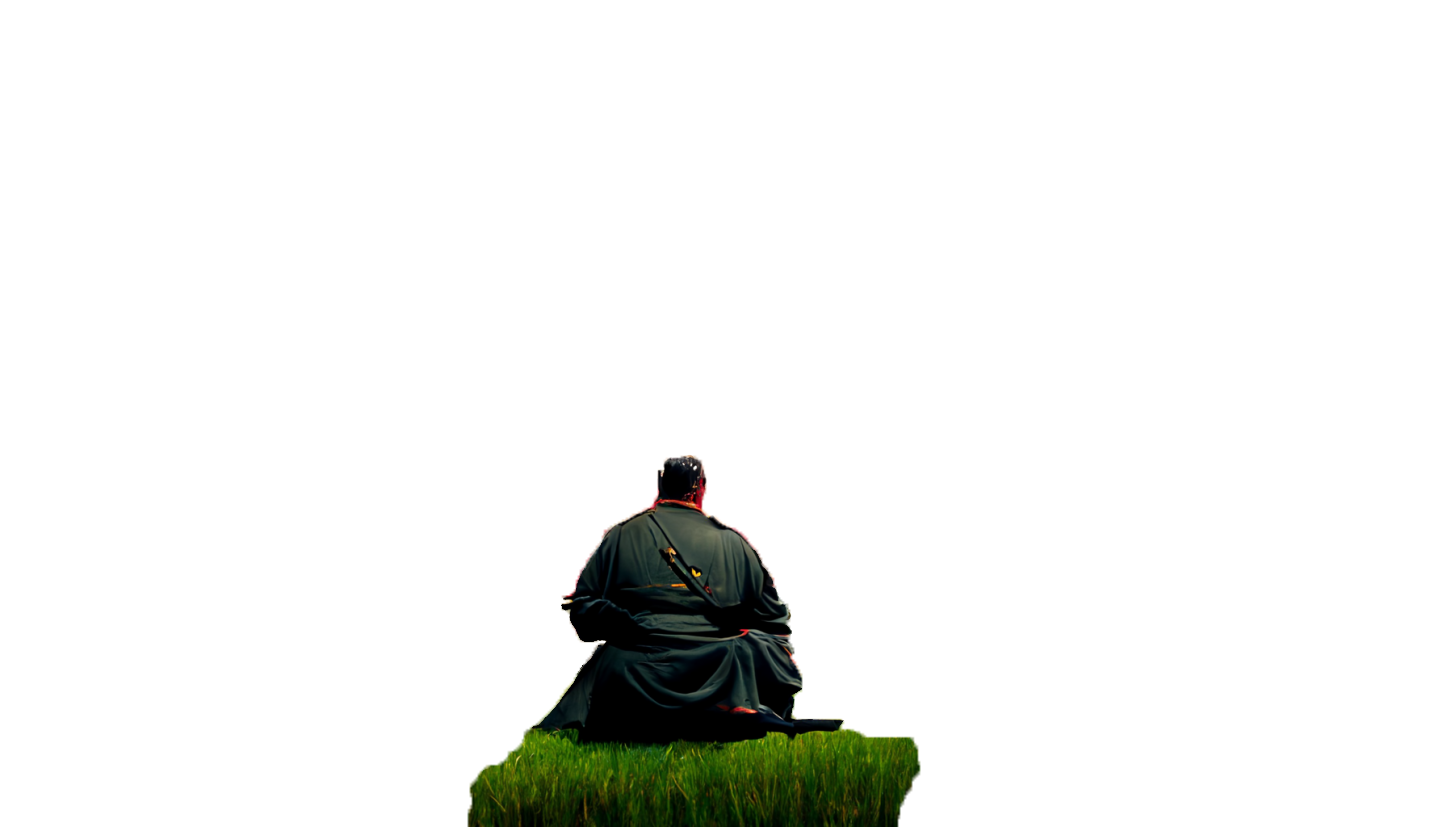
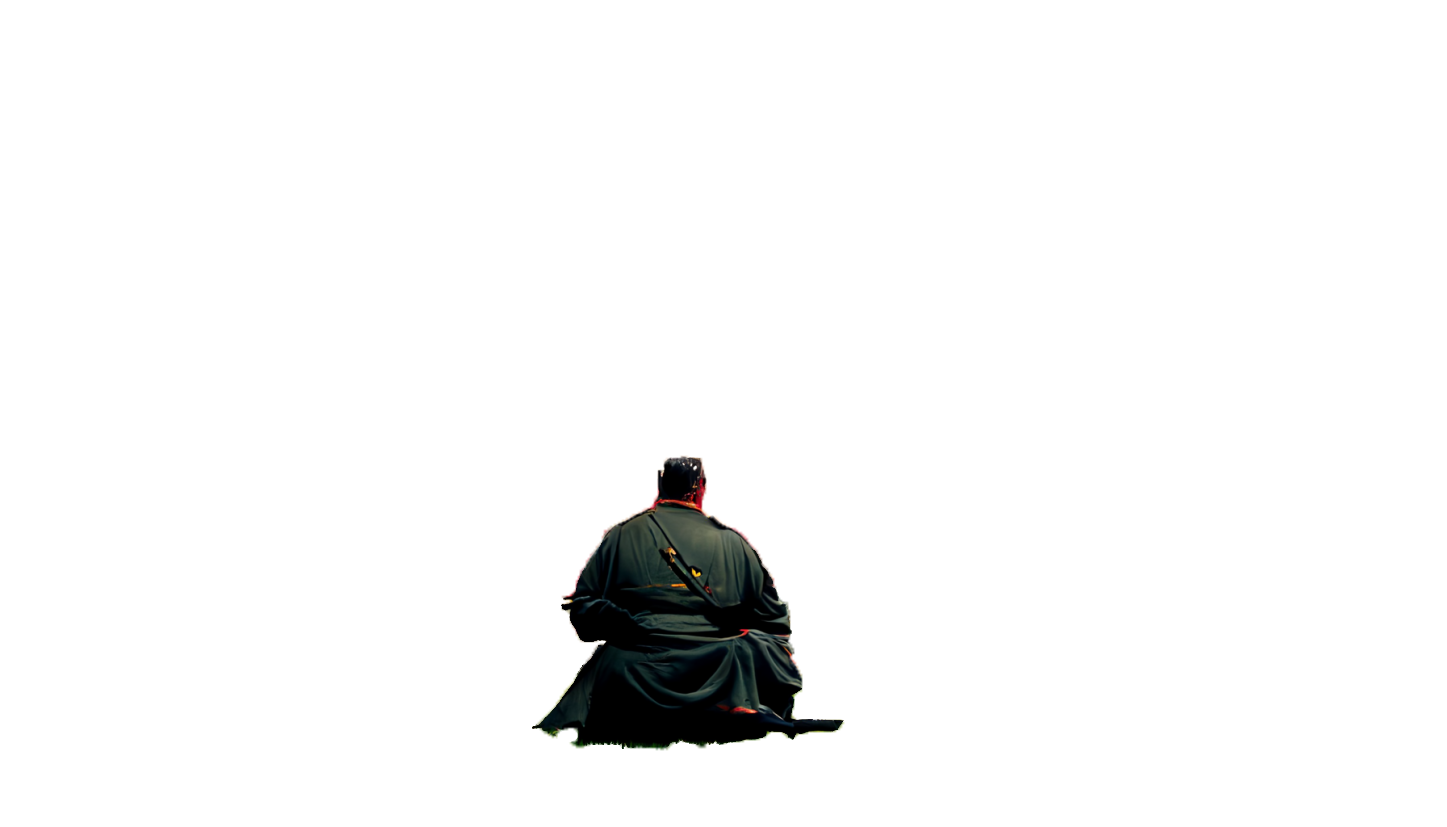
Added a prettier functionality to the main page

Changed region(s): [[0.311, 0.8767, 0.6531, 1.0]]

diff --git a/index.js b/index.js
@@ -10,16 +10,66 @@ document.addEventListener("DOMContentLoaded", function () {
         header.classList.add('reveal');
     }, 1500);  // 1500 milliseconds delay
 
-    // Subtle movement effect for h1
+    // Elements to move
     const header = document.querySelector('.header');
+    const personImage = document.querySelector('.person-image');
+    const skyImage = document.querySelector('.sky-image');
+    const leftTreesImage = document.querySelector('.left-trees-image');
+    const rightTreesImage = document.querySelector('.right-trees-image');
+    const grassImage = document.querySelector('.grass-image');
 
-    // Nav items
-    const navItems = document.querySelectorAll('.nav_item');
+    // Make tree images non-clickable and bring to the front
+    leftTreesImage.style.pointerEvents = 'none';
+    rightTreesImage.style.pointerEvents = 'none';
+    leftTreesImage.style.zIndex = 10;
+    rightTreesImage.style.zIndex = 10;
+
+    // Set initial opacity
+    leftTreesImage.style.opacity = 1;
+    rightTreesImage.style.opacity = 1;
 
     document.addEventListener('mousemove', function (e) {
-        const moveX = (e.clientX / window.innerWidth - 0.5) * 10; // Adjust multiplier for effect strength
-        const moveY = (e.clientY / window.innerHeight - 0.5) * 10; // Adjust multiplier for effect strength
+        const moveX = (e.clientX / window.innerWidth - 0.5) * 10;
+        const moveY = (e.clientY / window.innerHeight - 0.5) * 10;
         header.style.transform = `translate(${moveX}px, ${moveY}px)`;
+
+        // Align person image
+        const personMoveX = (e.clientX / window.innerWidth - 0.5) * 5;
+        const personMoveY = (e.clientY / window.innerHeight - 0.5) * 5 - 20; // Adjust vertical position
+        personImage.style.transform = `translate(${personMoveX}px, ${personMoveY}px) scale(1.05)`;
+
+        // Subtle movement for sky image
+        const skyMoveX = (e.clientX / window.innerWidth - 0.5) * 3;
+        const skyMoveY = (e.clientY / window.innerHeight - 0.5) * 3;
+        skyImage.style.transform = `translate(${skyMoveX}px, ${skyMoveY}px)`;
+
+        // Calculate the distance from the mouse to the center of the h1 element
+        const h1Bounds = document.querySelector('h1.header').getBoundingClientRect();
+        const mouseX = e.clientX;
+        const mouseY = e.clientY;
+
+        const centerX = (h1Bounds.left + h1Bounds.right) / 2;
+        const centerY = (h1Bounds.top + h1Bounds.bottom) / 2;
+
+        const distX = Math.abs(mouseX - centerX);
+        const distY = Math.abs(mouseY - centerY);
+
+        const maxDistX = window.innerWidth / 3;
+        const maxDistY = window.innerHeight / 3;
+
+        const opacityX = Math.pow(Math.min(distX / maxDistX, 1), 1); // More aggressive exponential function
+        const opacityY = Math.pow(Math.min(distY / maxDistY, 1), 1); // More aggressive exponential function
+
+        const finalOpacity = Math.max(opacityX, opacityY);
+        leftTreesImage.style.opacity = finalOpacity;
+        rightTreesImage.style.opacity = finalOpacity;
+
+        console.log(`Left Tree: opacity=${leftTreesImage.style.opacity}, Right Tree: opacity=${rightTreesImage.style.opacity}`);
+
+        // Apply subtle movement for grass image
+        const grassMoveX = (e.clientX / window.innerWidth - 0.5) * 5;
+        const grassMoveY = (e.clientY / window.innerHeight - 0.5) * 5;
+        grassImage.style.transform = `translate(${grassMoveX}px, ${grassMoveY}px)`;
 
         // Apply different movements for each nav item
         navItems.forEach((item, index) => {

diff --git a/index.css b/index.css
@@ -20,10 +20,7 @@ body {
 
 /* Header Styling */
 header {
-    background-image: url("Resources/Pictures/Kim_Jong_Un_Samurai_smaller.png");
-    background-position: center;
-    background-repeat: no-repeat;
-    background-size: cover;
+    position: relative;
     height: 100vh;
     width: 100%;
     display: flex;
@@ -32,18 +29,54 @@ header {
     align-items: center;
     padding: 0;
     margin: 0;
+    overflow: hidden;
+}
+
+.background-image,
+.sky-image,
+.left-trees-image,
+.right-trees-image,
+.grass-image,
+.person-image {
+    position: absolute;
+    top: 0;
+    left: 0;
+    width: 100%;
+    height: 100%;
+    object-fit: cover;
+}
+
+.sky-image {
+    z-index: 1;
+}
+
+.left-trees-image {
+    z-index: 2;
+}
+
+.right-trees-image {
+    z-index: 2;
+}
+
+.grass-image {
+    z-index: 2;
+}
+
+.person-image {
+    z-index: 3;
+    transition: transform 0.1s ease-out;
 }
 
 /* H1 Styling */
 h1.header {
-    font-size: 100px;
+    font-size: 150px;
     text-align: center;
     font-family: var(--headers-font);
     color: var(--fourth-color);
     text-shadow: var(--text-shadow);
-    /* Add text shadow */
     margin: 0;
     padding: 50px 0;
+    z-index: 4;
 }
 
 /* Nav Styling */
@@ -53,6 +86,7 @@ nav {
     justify-content: center;
     align-items: center;
     padding: 20px 40px;
+    z-index: 4;
 }
 
 /* Flex Navigation Styling */
@@ -76,7 +110,6 @@ nav {
     text-decoration: none;
     font-weight: bold;
     text-shadow: var(--text-shadow);
-    /* Add text shadow */
     margin-right: 20px;
     padding: 10px;
 }
@@ -85,15 +118,6 @@ nav {
 .nav_bar a:hover {
     background-color: #33333344;
     transition: background-color 0.3s ease;
-}
-
-/* Logo Name Styling */
-#logo_name {
-    color: black;
-    font-size: 20px;
-    margin-left: 20px;
-    letter-spacing: 0px;
-    line-height: 1;
 }
 
 /* Hidden and Reveal Classes */

diff --git a/index.html b/index.html
@@ -11,9 +11,15 @@
 </head>
 
 <body>
-
-
     <header class="container hidden">
+        <img src="Resources/Pictures/Kim_Jong_Un_Samurai_smaller.png" alt="Background Image" class="background-image">
+        <img src="Resources/Pictures/Kim_Jong_Un_Samurai_sky.png" alt="Sky Image" class="sky-image">
+        <img src="Resources/Pictures/Kim_Jong_Un_Samurai_left_trees.png" alt="Left Trees Image"
+            class="left-trees-image">
+        <img src="Resources/Pictures/Kim_Jong_Un_Samurai_right_trees.png" alt="Right Trees Image"
+            class="right-trees-image">
+        <img src="Resources/Pictures/Kim_Jong_Un_Samurai_grass.png" alt="Grass Image" class="grass-image">
+        <img src="Resources/Pictures/Kim_Jong_Un_Samurai_person.png" alt="Person Image" class="person-image">
         <nav class="flex_navigation">
             <div class="nav_bar">
                 <a href="./index.html" class="nav_item">Home</a>
@@ -25,14 +31,9 @@
         </nav>
         <h1 class="header hidden">Michal Kurák</h1>
     </header>
-
-
     <main>
         <p>A</p>
-
-
     </main>
-
 </body>
 
 </html>
